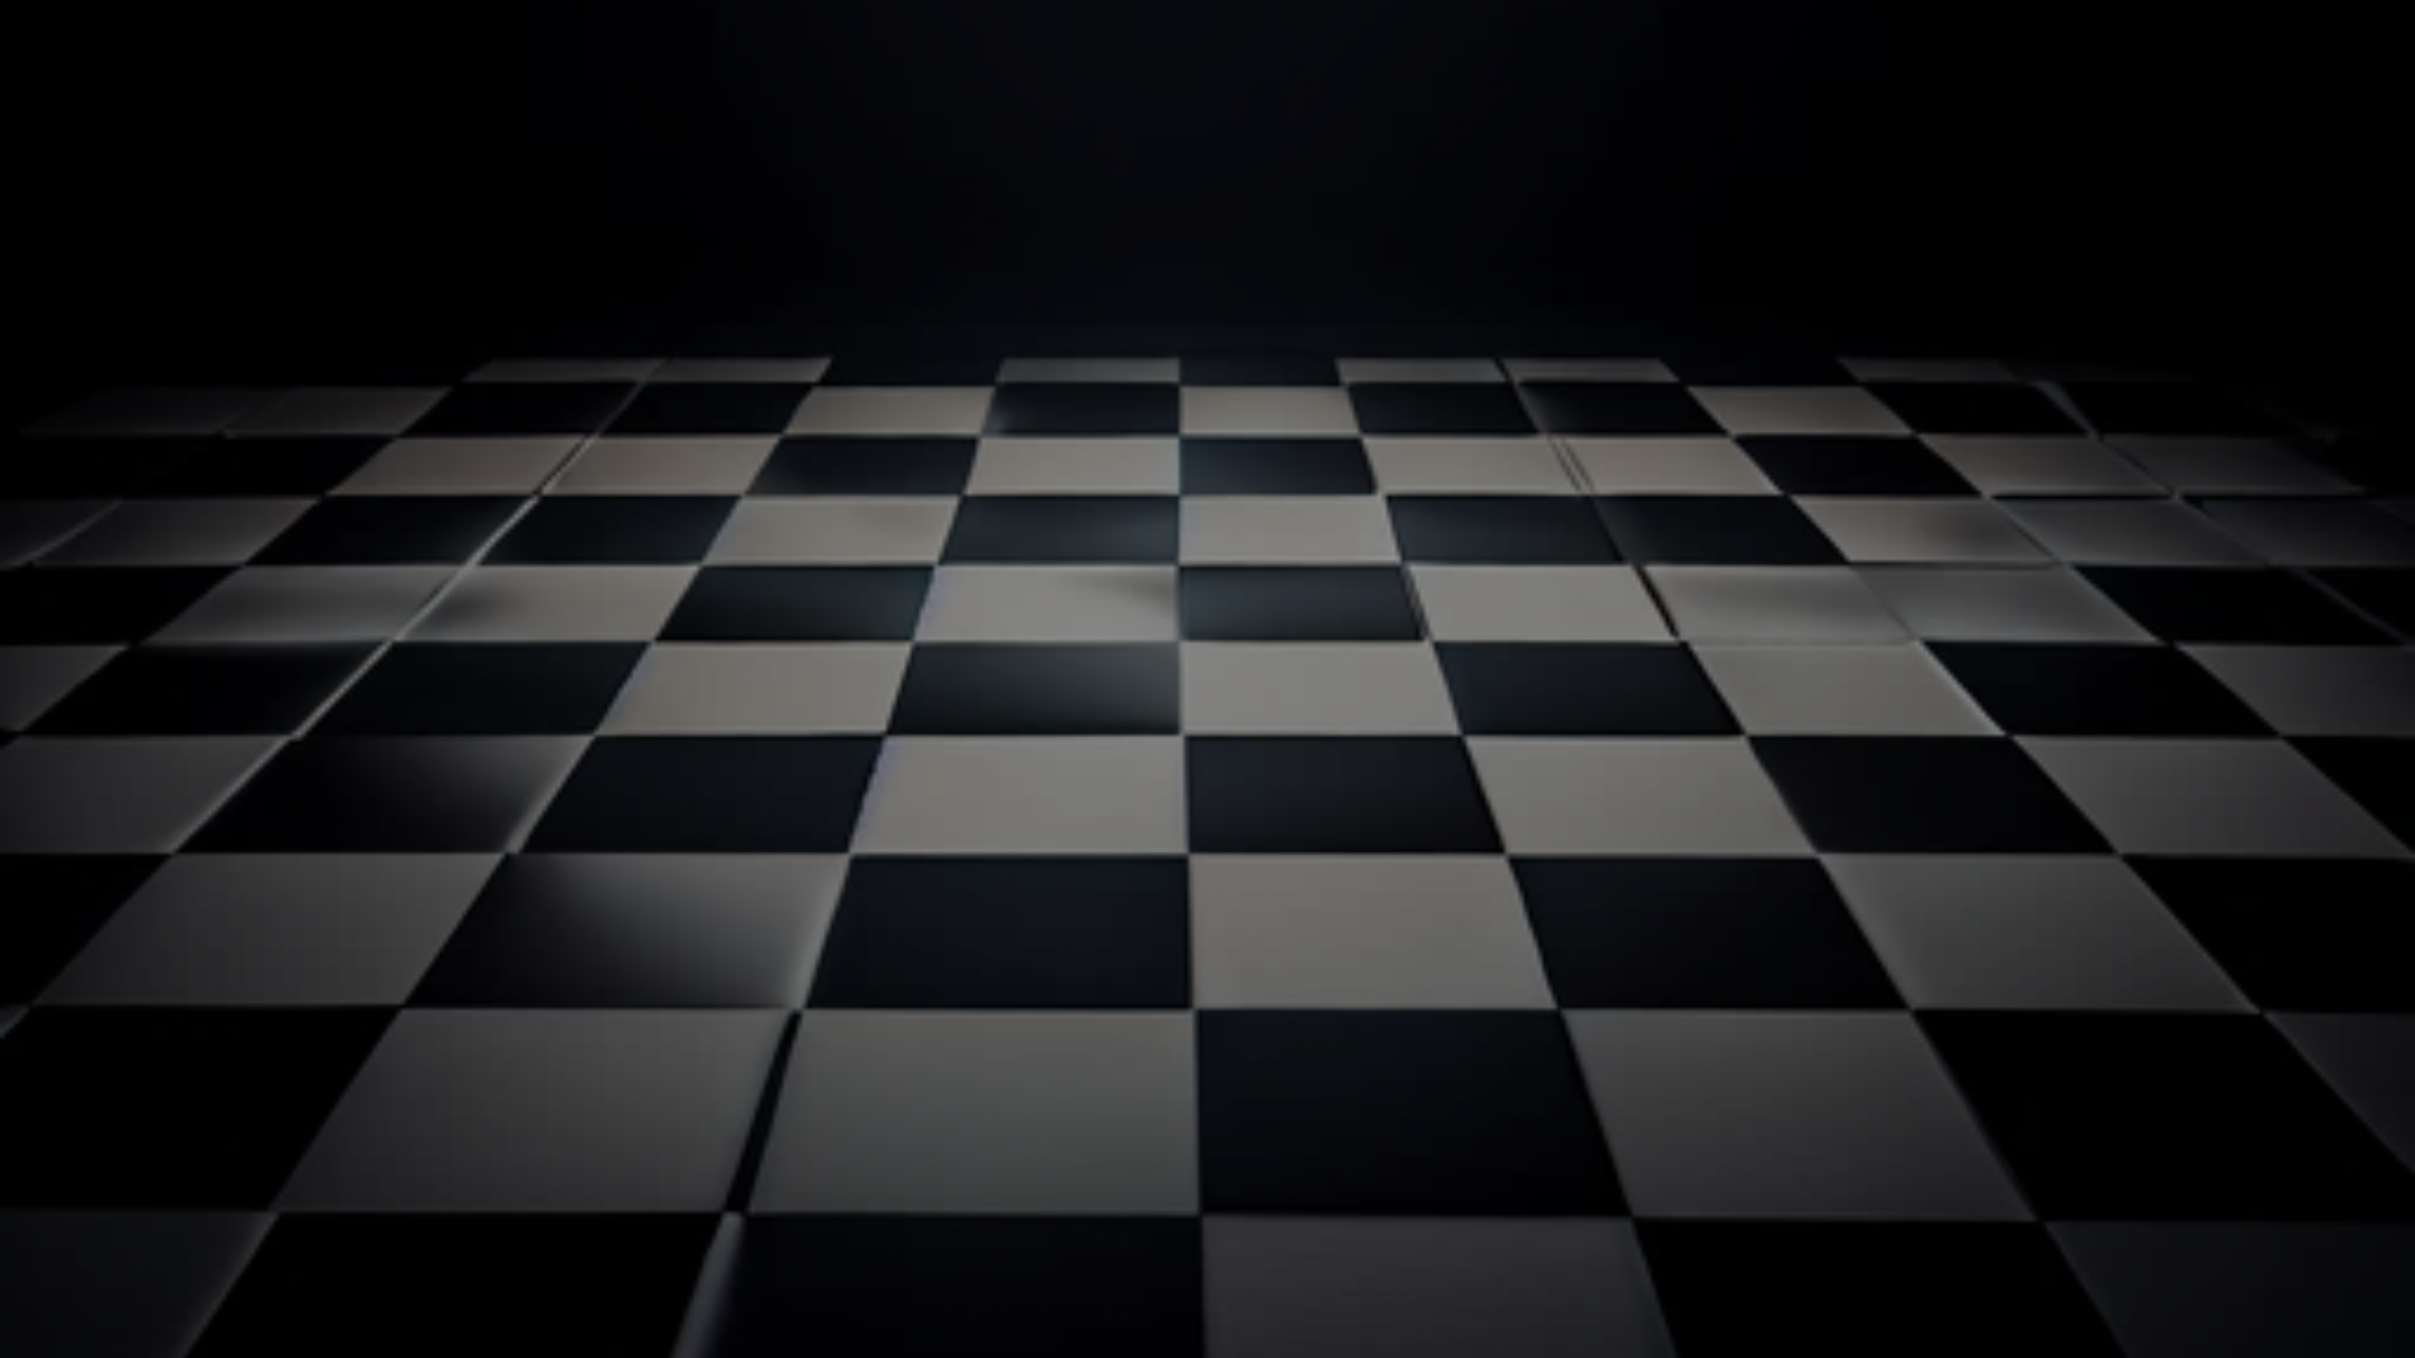
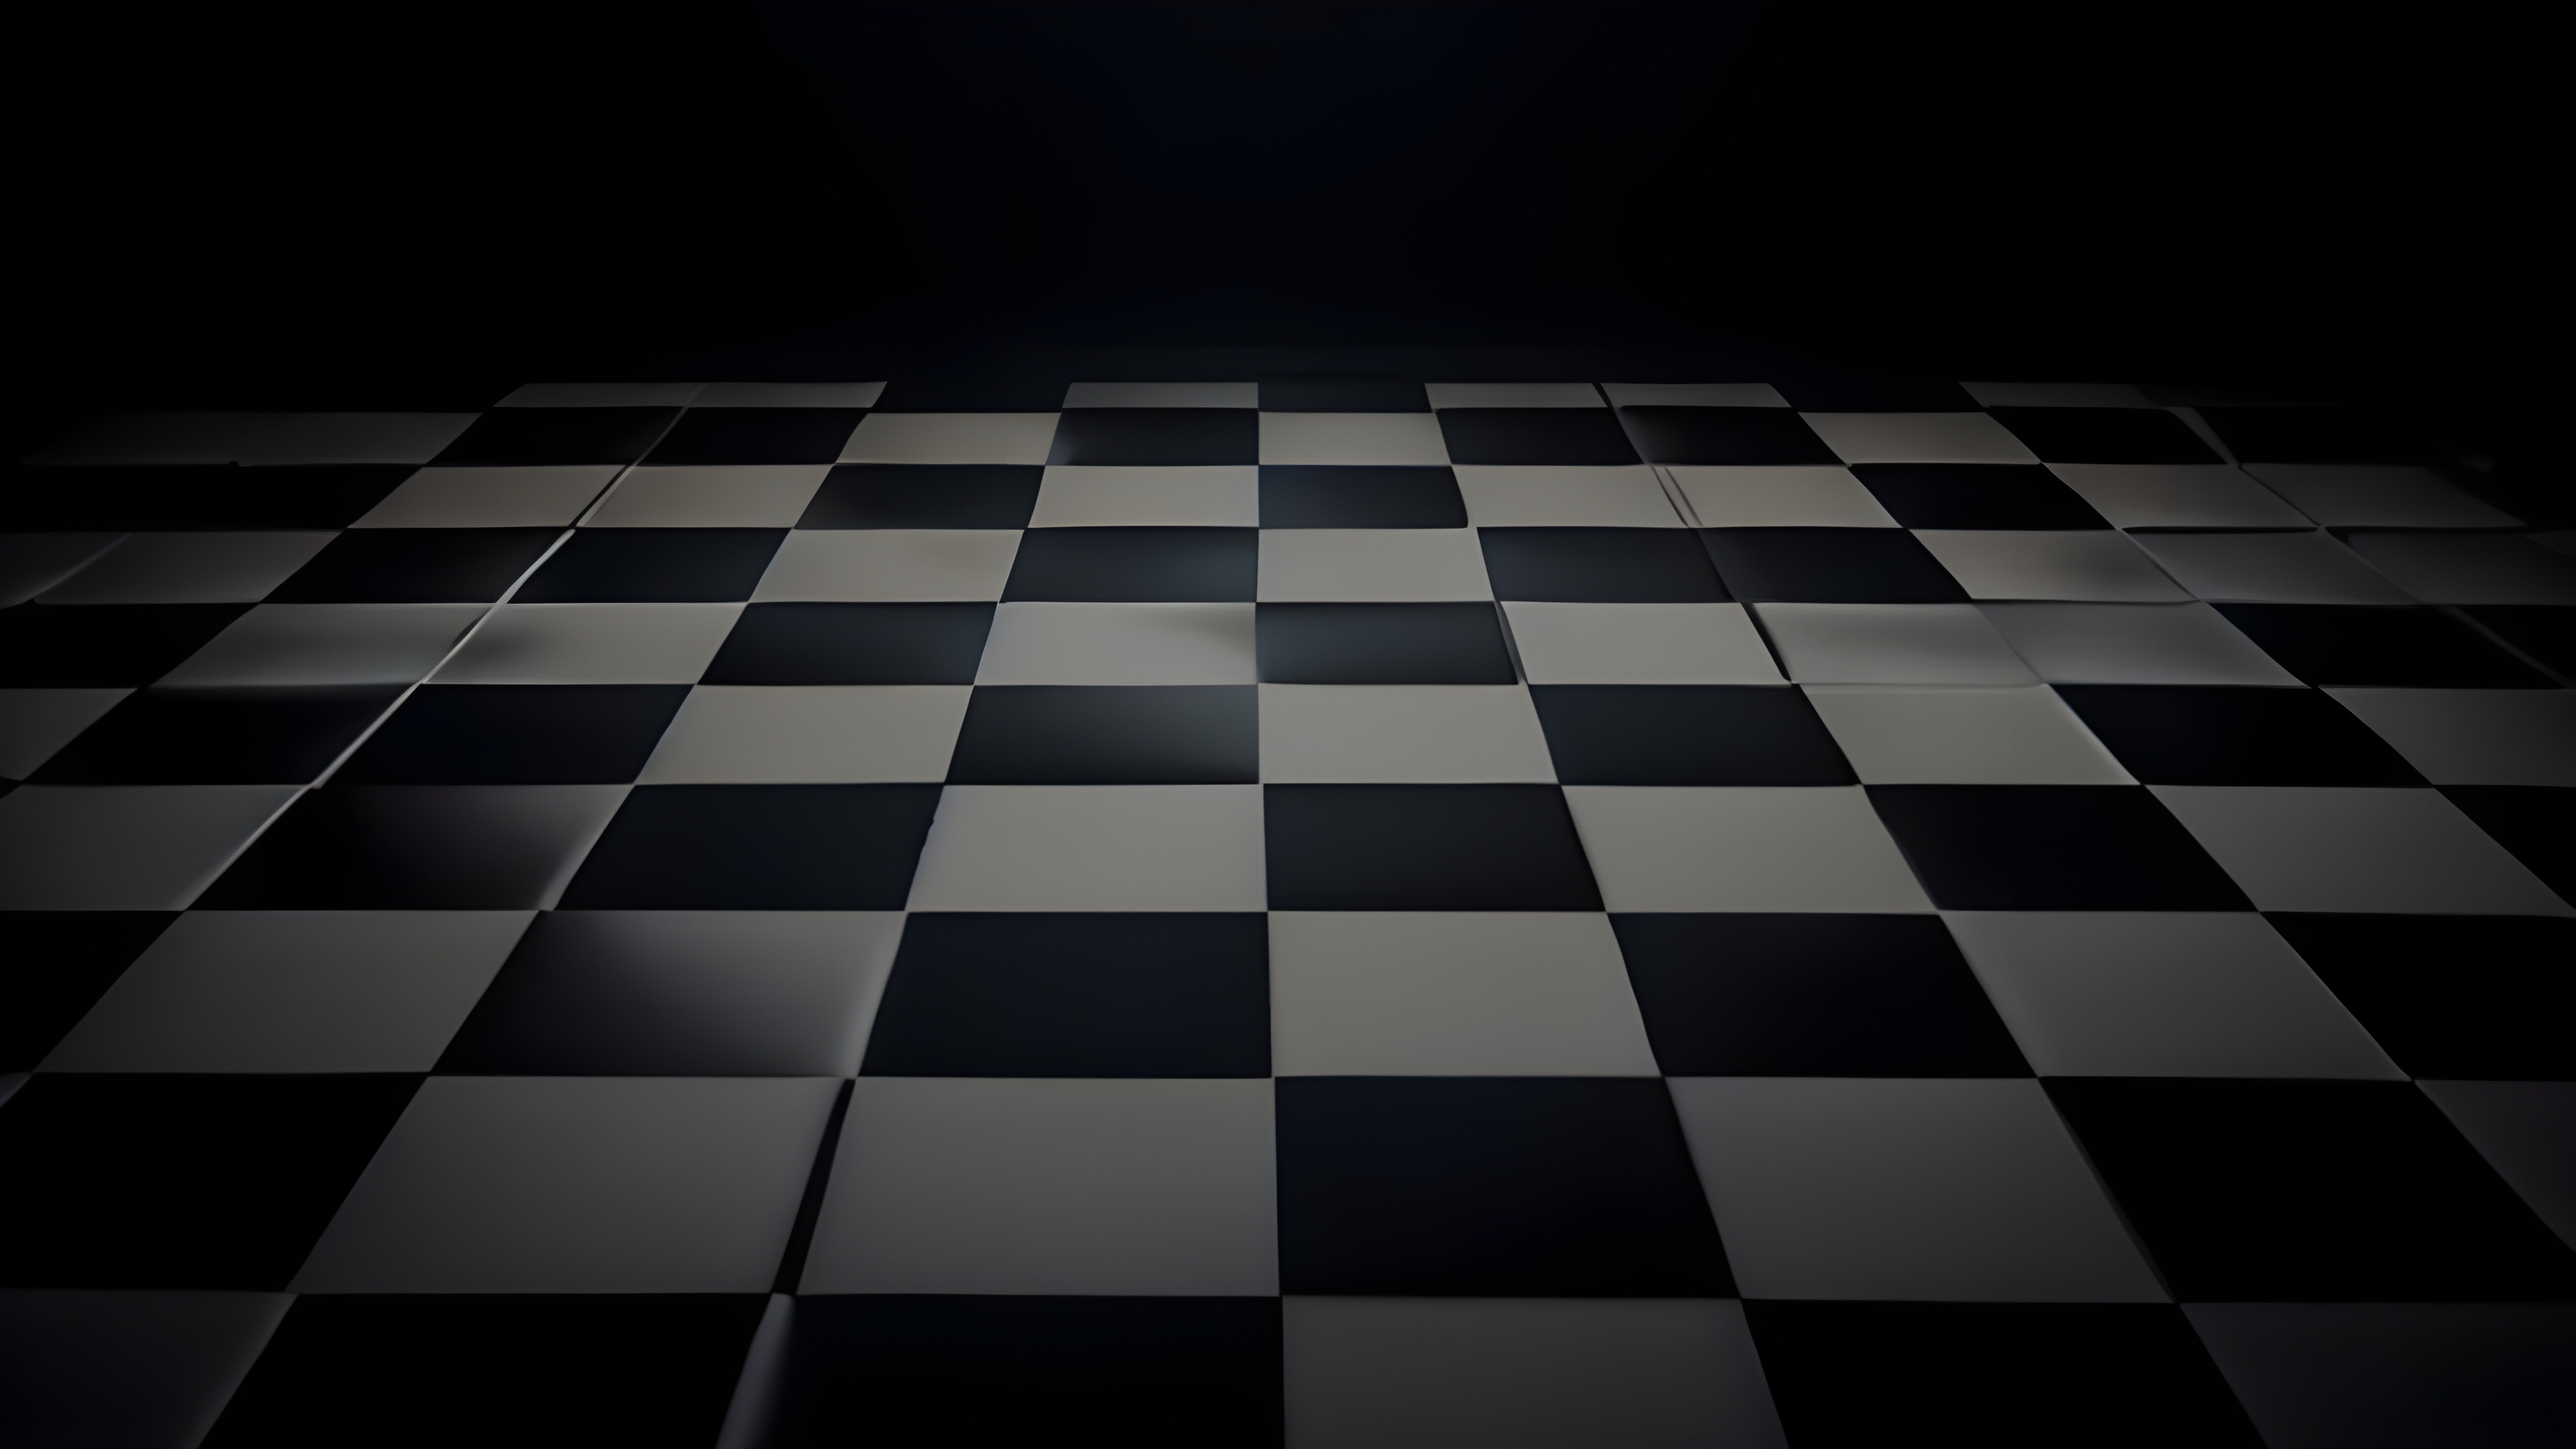
updated blurred bg image for template

diff --git a/src/components/template.js b/src/components/template.js
@@ -3,7 +3,7 @@ import { styled } from '@mui/material/styles';
 import Paper from '@mui/material/Paper';
 import Box from '@mui/material/Box';
 import Header from './header';
-import BackgroundImg from '../assets/chessbg.webp';
+import BackgroundImg from '../assets/chessbg.png';
 import Footer from './footer';
 
 // Container (background image)

diff --git a/src/config/API.js b/src/config/API.js
@@ -1,1 +1,2 @@
-export const API = 'http://localhost:4000';
+// export const API = 'http://localhost:4000';
+export const API = 'https://pro-chess-backend.vercel.app';
